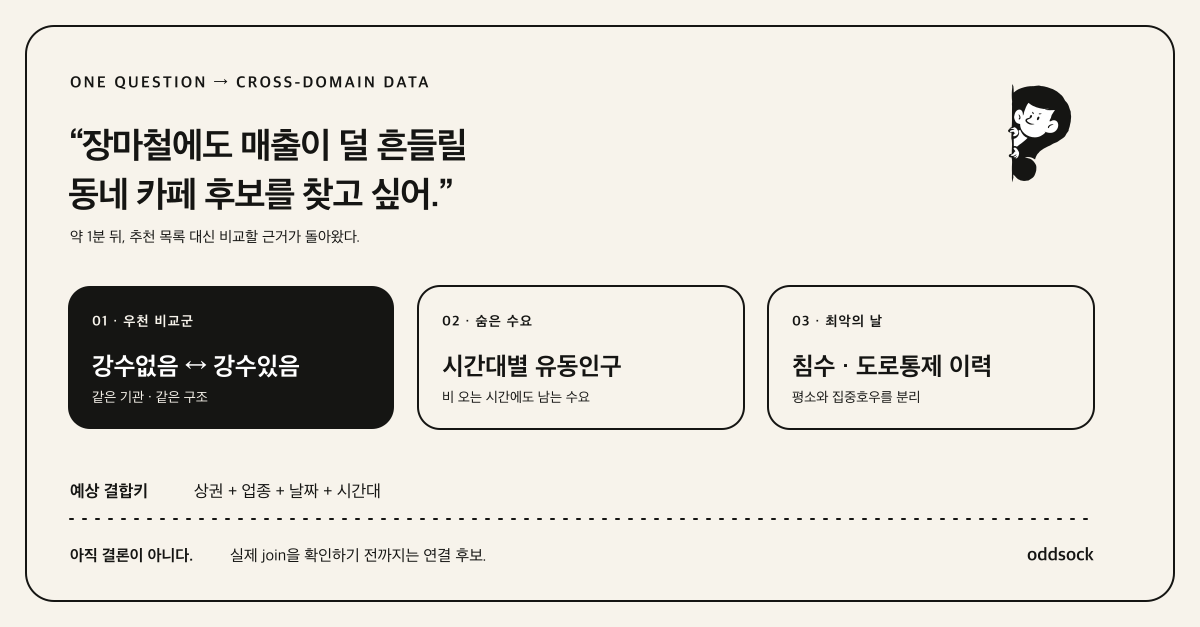
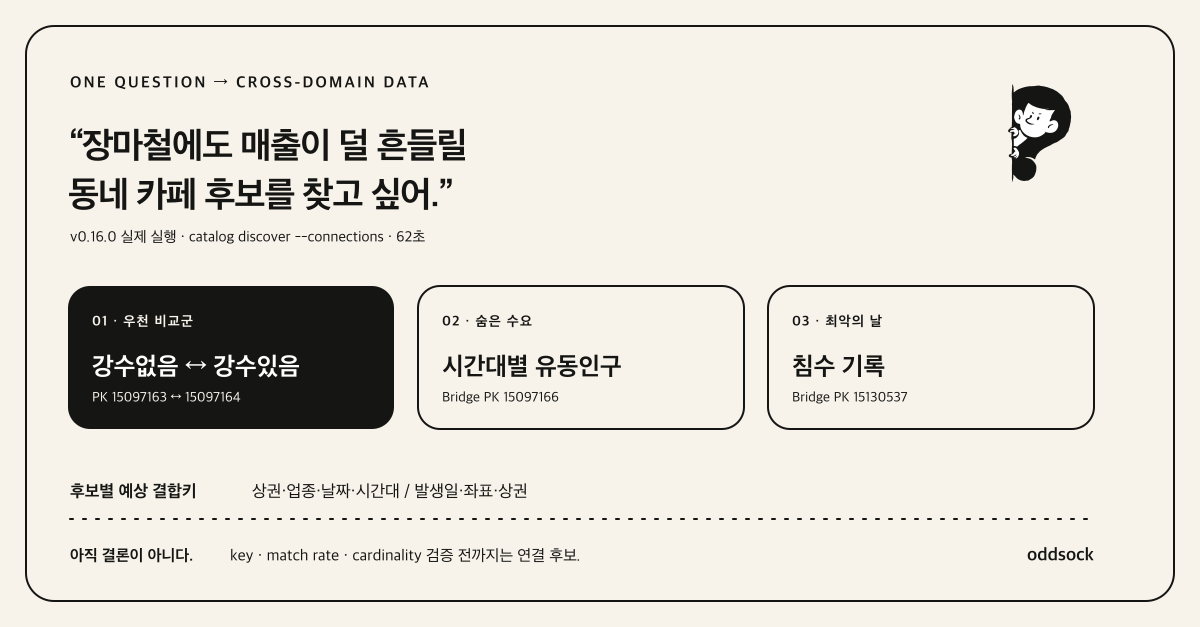
docs: visualize the end-to-end workflow gap

diff --git a/README.md b/README.md
@@ -30,6 +30,24 @@
 
 **oddsock은 당신의 AI 에이전트 안에서 그런 베테랑처럼 일한다.**
 
+## 기존 도구는 어디에서 멈췄나
+
+포털 자체와 타 포털 전용 구현을 제외한 data.go.kr 관련 공개 도구 10개를 README 문구가 아니라 실제
+도구 등록과 호출 코드로 비교했다. 검색→상세→호출을 이미 지원하는 도구도 있었다. 하지만 활용신청
+제출과 승인 확인까지 처리한 구현은 10개 중 0개였다. 데이터가 여러 분야에 걸치면 사람은 포털로 돌아가
+이 구간을 데이터마다 반복해야 했다.
+
+<p align="center">
+  <img src="docs/assets/oddsock-before-after.svg" width="900" alt="감사한 기존 도구들은 키워드, FTS, 고정 도메인처럼 서로 다른 탐색과 호출 범위를 가졌지만 활용신청과 승인 확인은 모두 사람에게 돌려보냈다. oddsock은 질문을 인구, 매출, 점포, 위험 같은 분야별 축으로 나눠 발견하고 실제 명세와 컬럼 검사, data.go.kr REST 활용신청, 승인과 키 확인, 인증 호출까지 잇는다.">
+</p>
+
+oddsock의 차이는 검색이나 호출을 처음 만들었다는 데 있지 않다. **다른 분야에 흩어진 데이터를 한
+질문의 후보로 모으고, 기존 도구가 사람에게 돌려보내던 구간까지 이어 간다.** data.go.kr REST라면
+사람은 정부 SSO에 한 번 로그인하고, 이후 에이전트가 발견→검사→신청→승인 확인→호출을 계속한다.
+
+비교 대상·고정 커밋·판정 근거와 한계는
+[공공데이터 MCP·CLI 경쟁 워크플로 감사](docs/research/competitive-workflow-audit.md)에 남겼다.
+
 가게 하나를 열기 전에 알고 싶은 것은 사람이 늘고 있는지, 비슷한 가게는 얼마나 버티는지, 평일 낮과
 주말 밤 중 언제 돈이 쓰이는지다. 생활인구는 사람의 흐름을, 매출은 소비를, 점포와 폐업 이력은 경쟁과
 생존을 보여준다. 어느 하나도 혼자서는 질문에 답하지 못한다. 실제 질문은 분야를 가로지르는데,
@@ -38,11 +56,6 @@
 공공데이터포털에서 `사람이 늘어나는 동네`를 검색해도 답은 잘 나오지 않는다. 포털이 알아듣는 말은
 `생활인구`, `추정매출`, `점포이력`, `상권변화지표`다. 필요한 데이터의 이름을 알아낸 뒤에도 서로 다른
 분야의 조각을 찾아 한 질문에 맞게 다시 모아야 한다.
-
-기존 공공데이터 MCP를 연결하면 검색→상세→호출은 한결 편해진다. 그래도 조사한 공개 구현 대부분은
-문자열 검색이나 고정된 카탈로그에서 시작하고, API를 찾은 뒤의 활용신청·승인 확인·키 발급은 다시
-사람에게 돌려준다. 하나의 질문에 API와 엑셀과 외부 링크가 함께 필요하면, AI가 찾아준 링크를 사람이
-하나씩 열어 봐야 한다. 그쯤 되면 데이터보다 탭이 더 많이 열려 있다.
 
 ## 질문은 하나인데, 답은 한 분야에 있지 않다
 
@@ -128,14 +141,17 @@ oddsock catalog discover \
 ```
 
 2026-09-03 Codex 계획기로 실행한 결과, 서대문구의 `강수없음` 자료를 Anchor로 잡고 같은 기관의
-`강수있음` 자료, 시간대별 유동인구, 침수·도로통제 이력을 Bridge 후보로 꺼냈다. 예상 결합키도
+`강수있음` 자료, 시간대별 유동인구, 침수 기록을 Bridge 후보로 꺼냈다. 예상 결합키도
 `상권 + 업종 + 날짜 + 시간대`처럼 함께 보여줬다.
 
 여기서 바로 “비 오는 날 잘되는 카페”라고 결론 내리지는 않았다. 실제 파일의 키·match rate·cardinality를
 확인하기 전까지는 **연결 후보**라고 표시했다. 넓게 찾되, 확인하지 않은 주장은 좁게 멈춘다.
 
 <p align="center">
-  <img src="docs/assets/oddsock-linkedin-demo.png" width="900" alt="장마철 카페 질문에서 우천 비교군, 시간대별 유동인구, 침수와 도로통제 이력을 연결 후보로 찾은 실제 데모 요약">
+  <img src="docs/assets/oddsock-linkedin-demo.svg" width="900" alt="실제 catalog discover 실행에서 강수 비교군, 시간대별 유동인구, 침수 기록을 서로 다른 연결 후보로 찾고 각 데이터의 PK와 예상 결합키, 검증 전 한계를 표시한 결과">
+</p>
+<p align="center">
+  <sub>v0.16.0 · 2026-09-03 · <code>catalog discover --connections</code> · data.go.kr 로그인·API 키·Ollama 없이 실행 · <a href="docs/research/launch-readiness-linkedin-geeknews-2026-09.md">실행 조건과 후보 PK</a></sub>
 </p>
 
 ## Numbers
